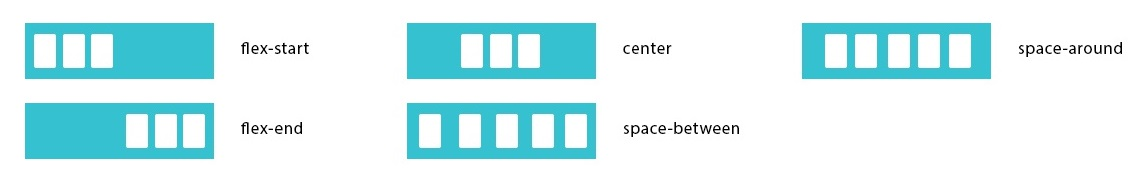
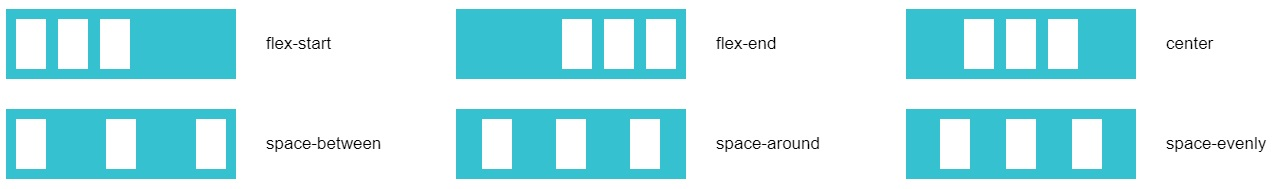
change themes

diff --git a/src/module-html/layout/flexbox.md b/src/module-html/layout/flexbox.md
@@ -1,12 +1,15 @@
 # Flexbox
 
-[Игра Flexbox Froggy](https://flexboxfroggy.com/#ru)
+
+- [A Complete Guide to Flexbox](https://css-tricks.com/snippets/css/a-guide-to-flexbox/)
+- [Игра Flexbox Froggy](https://flexboxfroggy.com/#ru)
+- [Flexbugs](https://github.com/philipwalton/flexbugs)
 
 
 <!-- xxxxxxxxxxxxxxxxxxxxxxxxxxxxxxxxxxxxxxxxxxxxxxxxxxxxxxx -->
 ### Информация
 <!-- xxxxxxxxxxxxxxxxxxxxxxxxxxxxxxxxxxxxxxxxxxxxxxxxxxxxxxx -->
-<img src="../@img/css-flexbox/flex-axis.jpg" width="600px">
+<img src="../@img/css-flexbox/flex-axis.jpg" width="800px">
 
 - `Main Axis` - главная ось (по горизонтали)
 - `Cross Axis` - второстепенная ось (по вертикали)
@@ -21,7 +24,19 @@
 <!------------------------------------------------------------->
 ```css
 .flex-container {
-	display: flex;  /* задание flex */
+	display: flex;         /* Задание flex */
+	display: inline-flex;  /* Задание inline-flex */
+}
+```
+
+<!------------------------------------------------------------->
+#### `gap`
+<!------------------------------------------------------------->
+- Задает расстояние между flex-элементами
+
+```css
+.flex-container {
+	gap: 10px;
 }
 ```
 
@@ -39,14 +54,14 @@
 <!------------------------------------------------------------->
 - Задаёт направление основных осей в контейнере
 
-<img src="../@img/css-flexbox/flex-direction.jpg" width="700px">
+<img src="../@img/css-flexbox/flex-direction.jpg" width="800px">
 
 ```css
 .flex-container {
-	flex-direction: row;              /* расположение блоков по горизонтали (по умолчанию) */
-	flex-direction: row-reverse;      /* расположение блоков по горизонтали (реверсионно) */
-	flex-direction: column;           /* расположение блоков по вертикали */
-	flex-direction: column-reverse;   /* расположение блоков по вертикали (реверсионно) */
+	flex-direction: row;              /* Расположение блоков по горизонтали (по умолчанию) */
+	flex-direction: row-reverse;      /* Расположение блоков по горизонтали (реверсионно) */
+	flex-direction: column;           /* Расположение блоков по вертикали */
+	flex-direction: column-reverse;   /* Расположение блоков по вертикали (реверсионно) */
 }
 ```
 
@@ -55,13 +70,13 @@
 <!------------------------------------------------------------->
 - Задает перенос флексов
 
-<img src="../@img/css-flexbox/flex-wrap.jpg" width="700px">
+<img src="../@img/css-flexbox/flex-wrap.jpg" width="800px">
 
 ```css
 .flex-container {
-	flex-wrap: nowrap;           /* флексы выстраиваются в одну линию */
-	flex-wrap: wrap;             /* флексы выстраиваются в несколько строк */
-	flex-wrap: wrap-reverse;     /* флексы выстраиваются в несколько строк реверсивно */
+	flex-wrap: nowrap;           /* Флексы выстраиваются в одну линию */
+	flex-wrap: wrap;             /* Флексы выстраиваются в несколько строк */
+	flex-wrap: wrap-reverse;     /* Флексы выстраиваются в несколько строк реверсивно */
 }
 ```
 </template>
@@ -74,15 +89,16 @@
 <!------------------------------------------------------------->
 - Управляет размещением элемента вдоль главной оси (по горизонтали)
 
-<img src="../@img/css-flexbox/justify-content.jpg" width="700px">
+<img src="../@img/css-flexbox/justify-content.jpg" width="800px">
 
 ```css
 .flex-container {
-	justify-content: flex-start;       /* флексы прижаты к началу строки */
-	justify-content: flex-end;         /* флексы прижаты к концу строки */
-	justify-content: center;           /* флексы выравниваются по центру строки */
-	justify-content: space-between;    /* флексы равномерно располагаются с одинаковыми расстояниями между ними (первый и последний элемент прижимаются к краям контейнера) */
-	justify-content: space-around;     /* флексы равномерно располагаются с одинаковыми расстояниями вокруг них (первый и последний элемент не прижимаются к краям контейнера) */
+	justify-content: flex-start;       /* Флексы прижаты к началу строки */
+	justify-content: flex-end;         /* Флексы прижаты к концу строки */
+	justify-content: center;           /* Флексы выравниваются по центру строки */
+	justify-content: space-between;    /* Флексы равномерно располагаются с одинаковыми расстояниями между ними (первый и последний элемент прижимаются к краям контейнера) */
+	justify-content: space-around;     /* Флексы равномерно располагаются с одинаковыми расстояниями вокруг них (первый и последний элемент не прижимаются к краям контейнера) */
+	justify-content: space-evenly      /* Флексы распределяются таким образом, чтобы расстояние между любыми двумя элементами (и расстояние до краев) было одинаковым */
 }
 ```
 
@@ -91,15 +107,15 @@
 <!------------------------------------------------------------->
 - Управляет размещением элемента вдоль второстепенной оси (по вертикали)
 
-<img src="../@img/css-flexbox/align-items.jpg" width="700px">
+<img src="../@img/css-flexbox/align-items.jpg" width="800px">
 
 ```css
 .flex-container {
-	align-items: flex-start;       /* флексы выравниваются в начале поперечной оси контейнера */
-	align-items: flex-end;         /* флексы выравниваются в конце поперечной оси контейнера */
-	align-items: center;           /* флексы выравниваются по линии поперечной оси */
-	align-items: stretch;          /* флексы растягиваются таким образом, чтобы занять всё доступное пространство контейнера */
-	align-items: baseline;         /* флексы выравниваются по их базовой линии (по нижней части параграфа) */
+	align-items: flex-start;       /* Флексы выравниваются в начале поперечной оси контейнера */
+	align-items: flex-end;         /* Флексы выравниваются в конце поперечной оси контейнера */
+	align-items: center;           /* Флексы выравниваются по линии поперечной оси */
+	align-items: stretch;          /* Флексы растягиваются таким образом, чтобы занять всё доступное пространство контейнера */
+	align-items: baseline;         /* Флексы выравниваются по их базовой линии (по нижней части параграфа) */
 }
 ```
 
@@ -109,16 +125,16 @@
 - Выравнивание многострочных элементов по вертикали (указывает, как несколько рядов должны отделяться друг от друга)
 - align-content отвечает за расстояние между рядами, в то время как align-items отвечает за то, как элементы в целом будут выровнены в контейнере. Когда только один ряд, align-content ни на что не влияет
 
-<img src="../@img/css-flexbox/align-content.jpg" width="700px">
+<img src="../@img/css-flexbox/align-content.jpg" width="800px">
 
 ```css
 .flex-container {
-	align-content: flex-start;       /* флексы располагаются в начале поперечной оси. Каждая следующая строка идёт вровень с предыдущей */
-	align-content: flex-end;         /* флексы располагаются начиная с конца поперечной оси. Каждая предыдущая строка идёт вровень со следующей */
-	align-content: center;           /* флексы располагаются по центру контейнер */
-	align-content: space-between;    /* флексы равномерно располагаются с одинаковыми расстояниями между ними (первый и последний элемент прижимаются к краям контейнера) */
-	align-content: space-around;     /* флексы равномерно располагаются с одинаковыми расстояниями вокруг них (первый и последний элемент не прижимаются к краям контейнера) */
-	align-content: stretch;          /* флексы растягиваются, заполняя контейнер равномерно (по умолчанию) */
+	align-content: flex-start;       /* Флексы располагаются в начале поперечной оси. Каждая следующая строка идёт вровень с предыдущей */
+	align-content: flex-end;         /* Флексы располагаются начиная с конца поперечной оси. Каждая предыдущая строка идёт вровень со следующей */
+	align-content: center;           /* Флексы располагаются по центру контейнер */
+	align-content: space-between;    /* Флексы равномерно располагаются с одинаковыми расстояниями между ними (первый и последний элемент прижимаются к краям контейнера) */
+	align-content: space-around;     /* Флексы равномерно располагаются с одинаковыми расстояниями вокруг них (первый и последний элемент не прижимаются к краям контейнера) */
+	align-content: stretch;          /* Флексы растягиваются, заполняя контейнер равномерно (по умолчанию) */
 }
 ```
 
@@ -142,8 +158,8 @@
 
 ```css
 .flex-element {
-	flex: 1 1 auto;  /* занимают равное место, пока влезают */
-	flex: 1 1 250px; /* указали фиксированную минимальную ширину */
+	flex: 1 1 auto;  /* Занимают равное место, пока влезают */
+	flex: 1 1 250px; /* Указали фиксированную минимальную ширину */
 }
 ```
 
@@ -158,7 +174,7 @@
 
 ```css
 .flex-element {
-	flex-grow: 2; /* если для всех flex-item, то это равные 2 части от container-flex (заполнят всю ширину блока) */
+	flex-grow: 2; /* Если для всех flex-item, то это равные 2 части от container-flex (заполнят всю ширину блока) */
 }
 ```
 
@@ -177,12 +193,15 @@
 <!------------------------------------------------------------->
 #### `flex-basis: auto`
 <!------------------------------------------------------------->
-- Базовый размер отдельно взятого блока (аналогично `min-width`)
+- Базовый размер отдельно взятого блока. Задает размер элемента вдоль главной оси
+- При `flex-direction: row` соответствует CSS-свойству `width`
+- При `flex-direction: column` соответствует CSS-свойству `height`
 
 ```css
 .flex-element {
-	flex-basis: 20%;   /* вместо width */
-	flex-basis: auto;  /* принимает значение ширины элемента */
+	flex-basis: 100px; /* Вместо width */
+	flex-basis: 0;     /* Дополнительное пространство вокруг контента не учитывается */
+	flex-basis: auto;  /* Дополнительное пространство распределяется на основе его значения flex-grow */
 }
 ```
 </template>
@@ -196,9 +215,9 @@
 
 ```css
 .flex-element {
-	order: 0;          /* по умолчанию у всех элементов */
-	order: 3;          /* элемент выводится третьим по порядку */
-	order: -1;         /* элемент выводится первым по порядку */
+	order: 0;          /* По умолчанию у всех элементов */
+	order: 3;          /* Элемент выводится третьим по порядку */
+	order: -1;         /* Элемент выводится первым по порядку */
 }
 ```
 
@@ -209,12 +228,12 @@
 
 ```css
 .flex-element {
-	align-self: auto;             /* выравнивать как указано у контейнера (по умолчанию) */
-	align-self: flex-start;       /* флексы выравниваются в начале поперечной оси контейнера */
-	align-self: flex-end;         /* флексы выравниваются в конце поперечной оси контейнера */
-	align-self: center;           /* флексы выравниваются по линии поперечной оси */
-	align-self: stretch;          /* флексы растягиваются таким образом, чтобы занять всё доступное пространство контейнера */
-	align-self: baseline;         /* флексы выравниваются по их базовой линии (по нижней части параграфа) */	
+	align-self: auto;             /* Выравнивать как указано у контейнера (по умолчанию) */
+	align-self: flex-start;       /* Флексы выравниваются в начале поперечной оси контейнера */
+	align-self: flex-end;         /* Флексы выравниваются в конце поперечной оси контейнера */
+	align-self: center;           /* Флексы выравниваются по линии поперечной оси */
+	align-self: stretch;          /* Флексы растягиваются таким образом, чтобы занять всё доступное пространство контейнера */
+	align-self: baseline;         /* Флексы выравниваются по их базовой линии (по нижней части параграфа) */	
 }
 ```
 
@@ -226,8 +245,8 @@
 
 ```css
 .flex-element {
-	margin: auto;        /* центрирует 1 блок по горизонтали и вертикали */
-	margin-left: auto;   /* выравнивает блок по правому краю, а остальные блоки по левому */
+	margin: auto;        /* Центрирует один блок по горизонтали и вертикали */
+	margin-left: auto;   /* Выравнивает блок по правому краю, а остальные блоки по левому */
 	margin-top: auto;
 	margin-right: auto;
 	margin-bottom: auto;

diff --git a/src/module-html/layout/css-grid.md b/src/module-html/layout/css-grid.md
@@ -1,13 +1,15 @@
 # CSS Grid
 
-[Игра Grid Garden](https://cssgridgarden.com/#ru)
+
+- [A Complete Guide to Grid](https://css-tricks.com/snippets/css/complete-guide-grid/)
+- [Игра Grid Garden](https://cssgridgarden.com/#ru)
 
 
 <!-- xxxxxxxxxxxxxxxxxxxxxxxxxxxxxxxxxxxxxxxxxxxxxxxxxxxxxxx -->
 ### Определения
 <!-- xxxxxxxxxxxxxxxxxxxxxxxxxxxxxxxxxxxxxxxxxxxxxxxxxxxxxxx -->
 - `Grid Track` - расстояние между ближайшими двумя линиями, колонка или строка
-- `Grid Line` - линия, создаваемая Grid Track. grid-gap толщина линии
+- `Grid Line` - линия, создаваемая Grid Track. <u>gap</u> толщина линии
 - `Grid Cell` - ячейка сетки
 - `Grid Area` - область всегда прямоугольная. объединение нескольких ячеек в одну
 - `Line-based placement` - позиционирование на основе линий
@@ -36,9 +38,9 @@ div {
 
 ```css
 div {
-	grid-gap: 20px;         /* расстояние между строками и стобцами (толщина линии) */
-	grid-column-gap: 20px;  /* расстояние между столбцами */
-	grid-row-gap: 20px;     /* расстояние между строками */
+	gap: 20px;         /* расстояние между строками и стобцами (толщина линии) */
+	column-gap: 20px;  /* расстояние между столбцами */
+	row-gap: 20px;     /* расстояние между строками */
 }
 ```
 
@@ -65,7 +67,7 @@ div {
 ```css
 .cards {
 	display: grid;
-	grid-gap: 20px;
+	gap: 20px;
 	grid-template-columns: repeat(3, 1fr);
 	grid-template-rows: 200px 200px;
 	grid-template-areas: "header  header  menu"

diff --git a/README.md b/README.md
@@ -5,7 +5,3 @@
 - Добавить favicon
 - Добавить страницу `config` для демонстрации виджетов
 - Добавить страницу `Ссылки`
-
-## Модули
-- CSS Grid - актуализировать `grid-gap`. https://developer.mozilla.org/ru/docs/Web/CSS/grid-gap
-- Flexbox - проверить новые значения
